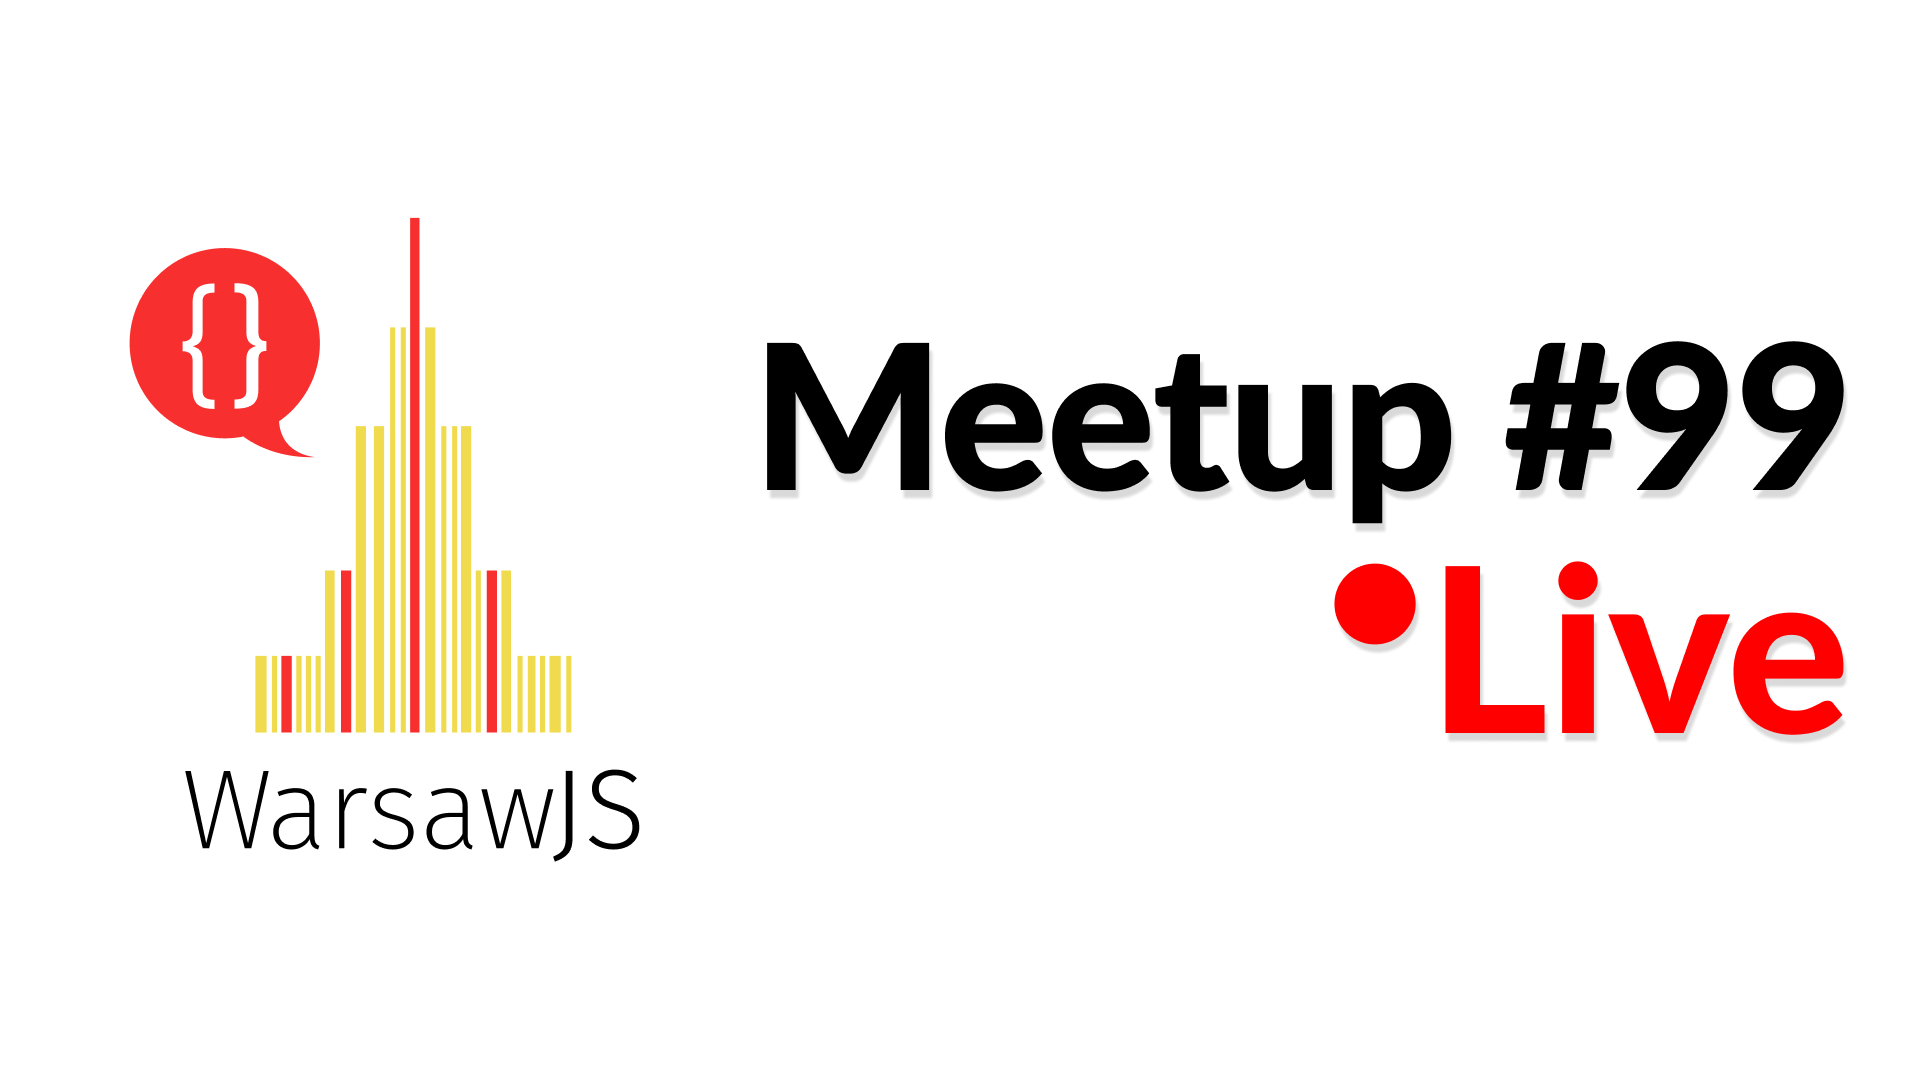
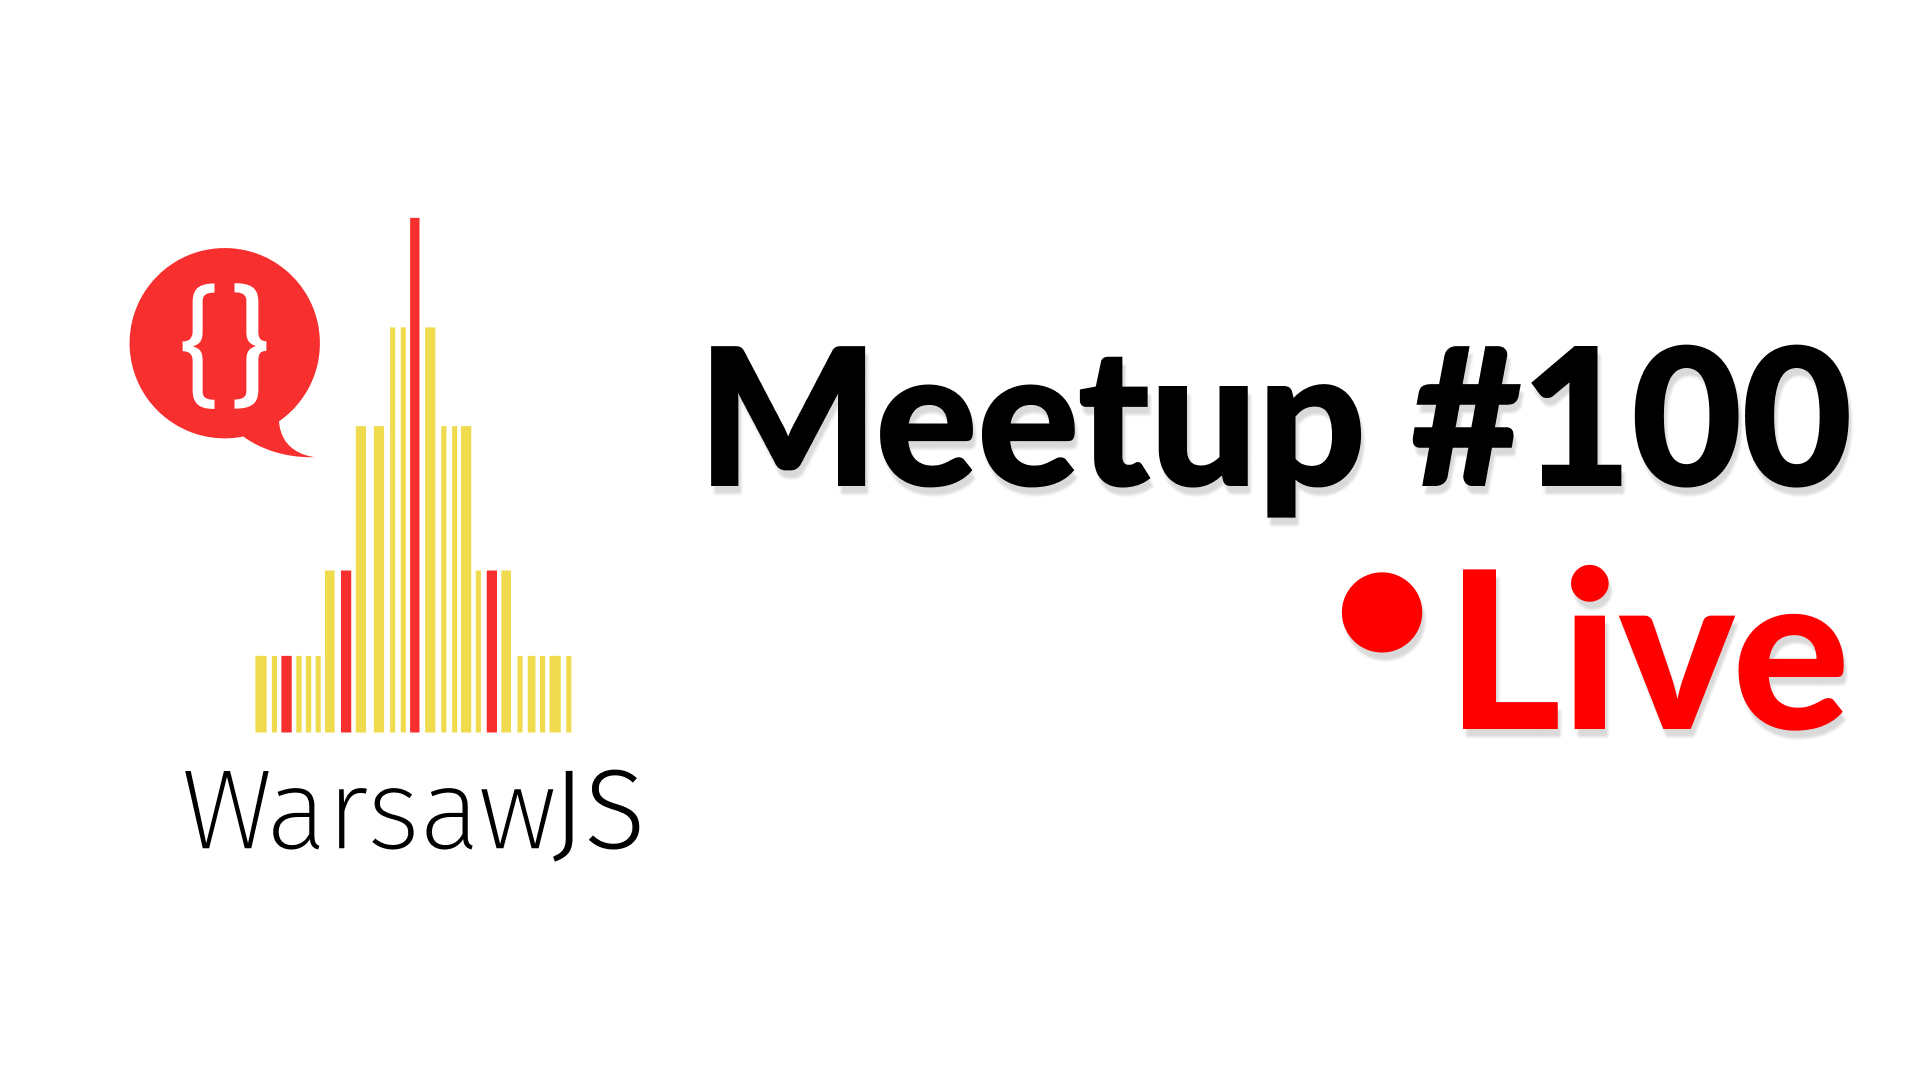
Update slides for #100

Changed region(s): [[0.3438, 0.3056, 0.9688, 0.4889], [0.6875, 0.5194, 0.9688, 0.7028]]

diff --git a/index.html b/index.html
@@ -26,7 +26,7 @@
            improve their JavaScript skills,
            and join a community that gives back.</p>
     </header>
-
+<!-- 
     <section class="slide">
         <div style="
             position: absolute;
@@ -51,7 +51,7 @@
                 top: 150px;
             "
         ></iframe>
-    </section>
+    </section> -->
 
     <section class="slide">
         <img class="cover" src="images/misc/Promo.png"
@@ -65,34 +65,7 @@
 
     <section class="slide center slide-card-list" style="padding-top: 40px;">
         <h2 style="font-size: 60px; margin-bottom: 20px;">
-            WarsawJS <em>Master of Ceremonies</em>
-        </h2>
-
-        <ul class="list-unstyled items">
-            <li>
-                <img
-                    src="https://s3.eu-central-1.amazonaws.com/www.warsawjs.com/static/images/people/barry-solone.jpg"
-                    class="avatar"
-                    style="border-radius: 50%; width: 170px; margin-bottom: 25px;"
-                    alt=""/>
-
-                <p>
-                    Barry Solone
-                </p>
-
-                <p>
-                    <a href="https://github.com/BeSoSolone">
-                        <i class="icon icon-twitter"></i>
-                        <span>Barry Solone</span>
-                    </a>
-                </p>
-            </li>
-        </ul>
-    </section>
-
-    <section class="slide center slide-card-list" style="padding-top: 40px;">
-        <h2 style="font-size: 60px; margin-bottom: 20px;">
-            WarsawJS Meetup <em>Organizing Team</em>
+            WarsawJS Meetup <em>Team</em>
         </h2>
 
         <ul class="list-unstyled items">
@@ -149,6 +122,24 @@
                     </a>
                 </p>
             </li>
+            <li>
+                <img
+                    src="https://s3.eu-central-1.amazonaws.com/www.warsawjs.com/static/images/people/barry-solone.jpg"
+                    class="avatar"
+                    style="border-radius: 50%; width: 170px; margin-bottom: 25px;"
+                    alt=""/>
+
+                <p>
+                    Barry Solone
+                </p>
+
+                <p>
+                    <a href="https://github.com/BeSoSolone">
+                        <i class="icon icon-twitter"></i>
+                        <span>Barry Solone</span>
+                    </a>
+                </p>
+            </li>
         </ul>
     </section>
 
@@ -168,18 +159,6 @@
 
                 <p>
                     Luiza Haas
-                </p>
-            </li>
-            <li>
-                <img
-                    src="https://s3.eu-central-1.amazonaws.com/www.warsawjs.com/static/images/people/pawel-rechnio.jpg
-"
-                    class="avatar"
-                    style="border-radius: 50%; width: 170px; margin-bottom: 25px;"
-                    alt=""/>
-
-                <p>
-                    Paweł Rechnio
                 </p>
             </li>
         </ul>
@@ -212,13 +191,32 @@
 
             <li>
                 <img
-                    src="https://s3.eu-central-1.amazonaws.com/www.warsawjs.com/static/images/people/grzegorz-markowski.jpg"
+                    src="https://s3.eu-central-1.amazonaws.com/www.warsawjs.com/static/images/people/wenyao.jpg"
                     class="avatar"
                     style="border-radius: 50%; width: 170px; margin-bottom: 25px;"
                     alt=""/>
 
                 <p>
-                    Grzegorz Markowski
+                    Wenyao Lin
+                </p>
+
+                <p>
+                    <a href="https://github.com/warsawjs">
+                        <i class="icon icon-twitter"></i>
+                        <span>Wenyao</span>
+                    </a>
+                </p>
+            </li>
+
+            <li>
+                <img
+                    src="https://s3.eu-central-1.amazonaws.com/www.warsawjs.com/static/images/people/kasia-kowalczyk.jpg"
+                    class="avatar"
+                    style="border-radius: 50%; width: 170px; margin-bottom: 25px;"
+                    alt=""/>
+
+                <p>
+                    Kasia Kowalczyk
                 </p>
 
                 <p>
@@ -320,15 +318,13 @@
     </section> -->
 
     <section class="slide">
-        <h1 class="shout">6,138 🙌</h1>
-
-        <h3 class="shout" style="font-size: 50px; margin-top: 120px;">
-            <br/>
-            Thank you for joining!
-            <br/>
-            <a href="http://meetup.com/warsawjs">meetup.com/warsawjs</a>
-        </h3>
+        <img
+            class="cover"
+            src="images/misc/meetup.png"
+            alt="Meetup"
+        />
     </section>
+
 
     <section class="slide center slide-card-list">
         <h2 style="font-size: 60px; margin-bottom: 160px;">
@@ -357,11 +353,11 @@
                     alt=""/>
 
                 <p>
-                 If you want to get 100% discount for a JetBrains license
+                 If you want to get 100% discount for a one year JetBrains license
                 </p>
 
                 <p>
-                   Give a lightning talk!
+                   Find Konrad Kowalski!
                 </p>
             </li>
         </ul>
@@ -370,8 +366,30 @@
     <section class="slide">
         <img
             class="cover"
-            src="images/misc/Agenda.png"
-            alt="Meetup 96 speakers"
+            src="images/misc/google_for_startups.png"
+            alt="Meetup"
+        />
+    </section>
+
+    <section class="slide">
+        <img
+            class="cover"
+            src="images/misc/first_talk.png"
+            alt=""
+        />
+    </section>
+    <section class="slide">
+        <img
+            class="cover"
+            src="images/misc/second_talk.png"
+            alt=""
+        />
+    </section>
+    <section class="slide">
+        <img
+            class="cover"
+            src="images/misc/fireside_chat.jpg"
+            alt=""
         />
     </section>
 
@@ -398,29 +416,22 @@
              alt="iTechArt, Box, Callstack, Daftcode, Evolution, Fresha, Prisma, SoftServe, Xfaang"/>
     </section>
 
-    <section class="slide">
+<!--     <section class="slide">
         <img
             class="cover"
             src="images/misc/radioIT.png"
             alt="Radio IT"
         />
-    </section>
-
-
-<!--     <section class="slide">
-        <img class="cover" src="images/misc/meetjs.png"
-             alt="Meet.js Summit"/>
     </section> -->
 
 
-
-<!--     <section class="slide">
+    <section class="slide">
         <img
             class="cover"
             src="images/misc/confrontjs.png"
             alt="ConfrontJS 2023"
         />
-    </section> -->
+    </section>
 
 <!--     <section class="slide">
         <h1>Early-bird tickets for 24th March 2023!</h1>
@@ -430,6 +441,15 @@
     </section> -->
 
     <section class="slide">
+        <img
+            class="cover"
+            src="images/misc/Next.png"
+            alt="Next Meetup"
+        />
+    </section>
+
+
+<!--     <section class="slide">
         <a href="https://app.evenea.pl/event/warsawjs-meetup-100/">
             <img
                 class="cover"
@@ -437,7 +457,7 @@
                 alt="WarsawJS"
             />
         </a>   
-    </section>
+    </section> -->
 <!--     <section class="slide center" style="padding-top: 40px;">
         <h2 class="shout grow" style="font-size: 120px;">
             🔥 After Party! 🔥
@@ -513,9 +533,9 @@
     </section> -->
 
 <!--     <section class="slide">
-        <h1>Tickets for WarsawJS Meetup #95 are available now!</h1>
+        <h1>Tickets for WarsawJS Meetup #101 are available now!</h1>
         <h3 class="shout" style="font-size: 40px; margin-top: 120px;">
-            <a href="https://www.meetup.com/WarsawJS/">https://app.evenea.pl/event/warsawjs-meetup-96/</a>
+            <a href="https://www.meetup.com/WarsawJS/">https://app.evenea.pl/event/warsawjs-meetup-101/</a>
         </h3>
     </section>
  -->
